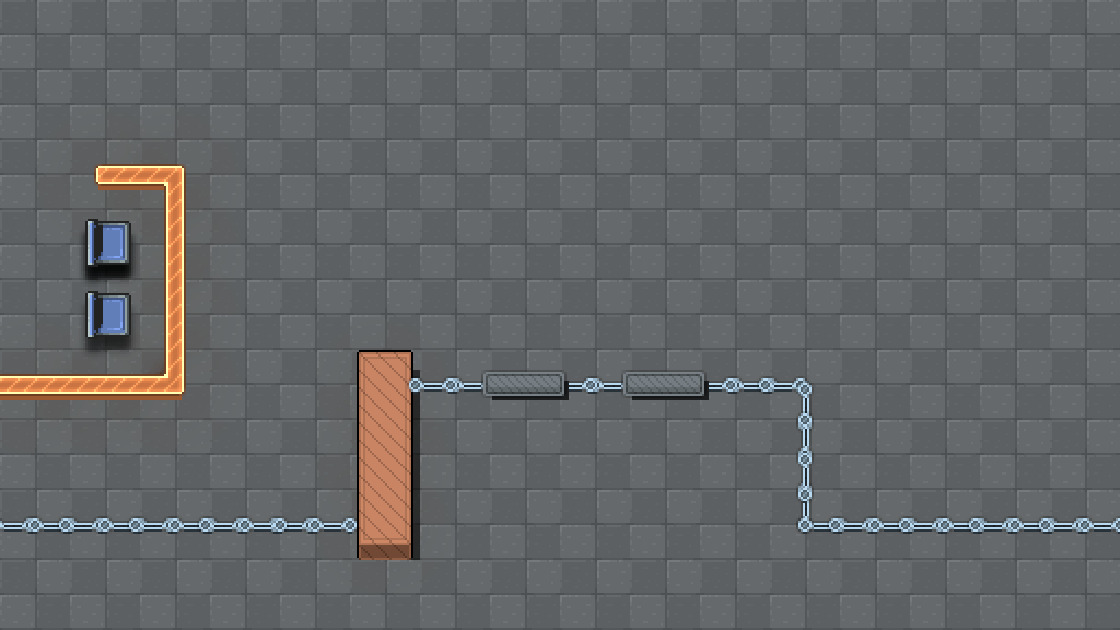
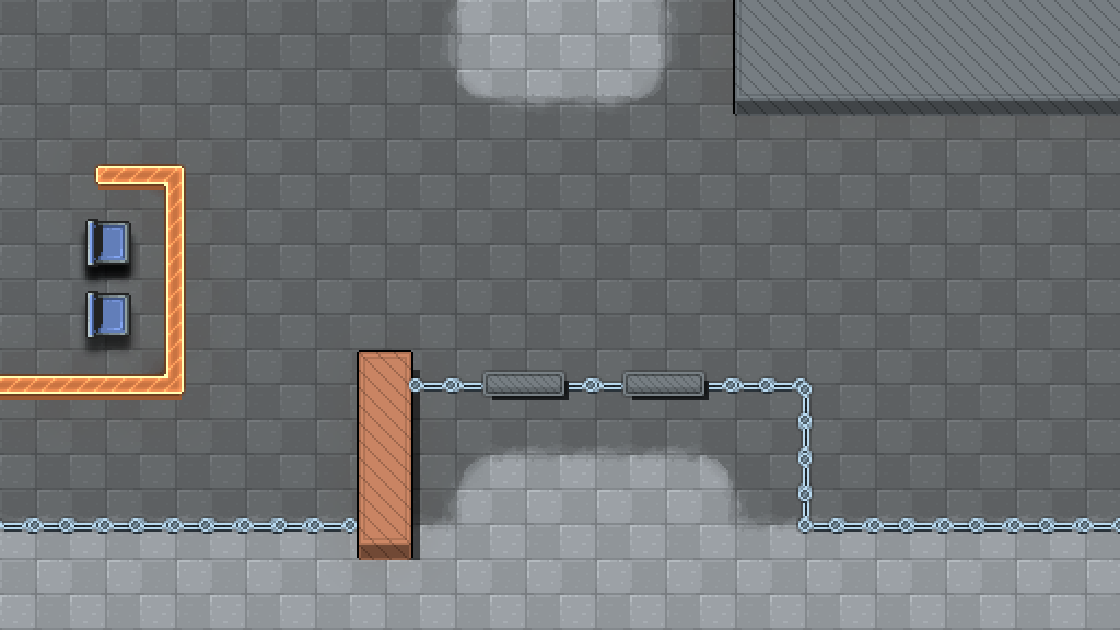
novos mapas de sala e jardim

Changed region(s): [[0.0, 0.6937, 1.0, 1.0], [0.6562, 0.0, 1.0, 0.181], [0.4062, 0.0, 0.5938, 0.181]]

diff --git a/game.py b/game.py
@@ -16,10 +16,10 @@ AZUL_CLARO      = (150,200,255)
 # ────── FONTE PIXEL ──────
 PIXEL_FONT = "fonts/PressStart2P-Regular.ttf"   # ajuste se necessário
 try:
-    fonte_dialog = pygame.font.Font(PIXEL_FONT, 20)
+    fonte_dialog = pygame.font.Font(PIXEL_FONT, 30)
 except FileNotFoundError:
     print("⚠  Fonte PressStart2P não encontrada – usando sistema.")
-    fonte_dialog = pygame.font.Font(None, 20)
+    fonte_dialog = pygame.font.Font(None, 30)
 
 fonte_hud = pygame.font.SysFont("Arial", 20)    # apenas HUD (inventário, ESC)
 
@@ -263,7 +263,7 @@ def main():
     natalie = NPC(9*LARGURA/10, 1*ALTURA/10, natalie_sprite)
 
     # área da “Bola do ICEx” (região circular central)
-    quest_target = pygame.Rect(LARGURA//2-60, ALTURA//2-60, 120,120)
+    quest_target = pygame.Rect(0, ALTURA//2-200, 210,300)
 
     fases = [
         # 0 ── PORTARIA
@@ -287,6 +287,7 @@ def main():
             "placas"     : [],
             "itens"      : [],
             "npcs"       : [],
+            "quest_target": quest_target,
             "transicoes" : [
                 { "rect": pygame.Rect(0, ALTURA-5, LARGURA, 5),        # base
                   "dest": 0,        # retorna à portaria
@@ -299,17 +300,68 @@ def main():
         },
 
         # 2 ── SALAS 1
+# 2 ── SALAS 1
         {
-            "fundo"      : load_bg("salas1.png"),
-            "obstaculos" : [],
-            "placas"     : [],
-            "itens"      : [Item(700, 500, "Caneta")],
-            "npcs"       : [natalie],
-            "quest_target": quest_target,
-            "transicoes" : [
-                { "rect": pygame.Rect(0, ALTURA-5, LARGURA, 5),        # base
-                  "dest": 1,        # volta para bolajardim
+            "fundo": load_bg("salas1.png"),
+            "obstaculos": [],
+            "placas": [],
+            "itens": [Item(700, 500, "Caneta")],
+            "npcs": [natalie],
+            "transicoes": [
+                { "rect": pygame.Rect(0, ALTURA-5, LARGURA, 5),
+                "dest": 1,
+                "spawn_side": "top" },
+                { "rect": pygame.Rect(LARGURA - 5, 0, 5, ALTURA),    # borda direita
+                "dest": 3,
+                "spawn_side": "left" }
+            ]
+        },
+
+                # 3 ── SALAS 2 (nova fase à direita de salas1)
+        {
+            "fundo": load_bg("salas2.png"),
+            "obstaculos": [],
+            "placas": [],
+            "itens": [],
+            "npcs": [],
+            "transicoes": [
+                { "rect": pygame.Rect(0, 0, 5, ALTURA),    # esquerda → salas1
+                "dest": 2,
+                "spawn_side": "right" },
+                { "rect": pygame.Rect(0, ALTURA - 5, LARGURA, 5),   # baixo → jardim2
+                "dest": 4,
+                "spawn_side": "top" }
+            ]
+
+        },
+                # 4 ── JARDIM 2 (abaixo de salas2)
+        {
+            "fundo": load_bg("jardim2.png"),
+            "obstaculos": [],
+            "placas": [],
+            "itens": [],
+            "npcs": [],
+            "transicoes": [
+                { "rect": pygame.Rect(0, 0, LARGURA, 5),    # borda superior
+                  "dest": 3,
+                  "spawn_side": "bottom" },
+                { "rect": pygame.Rect(0, ALTURA - 5, LARGURA, 5),    # borda inferior
+                  "dest": 5,
                   "spawn_side": "top" }
+            ]
+        },
+
+        # 5 ── CORREDOR FINAL (abaixo de jardim2)
+        {
+            "fundo": load_bg("corredorfinal.png"),
+            "obstaculos": [],
+            "placas": [],
+            "itens": [],
+            "npcs": [],
+            "transicoes": [
+                { "rect": pygame.Rect(0, 0, LARGURA, 5),    # borda superior
+                  "dest": 4,
+                  "spawn_side": "bottom" }
             ]
         }
     ]
@@ -385,13 +437,18 @@ def main():
         keys=pygame.key.get_pressed()
         if not (lendo_placa or quiz_pending or (npc_prox and npc_prox.ativo)):
             jogador.update(keys,fase["obstaculos"])
+                
+        # ─────── QUEST: tirar a foto manualmente ───────
+        dentro_area_foto = (
+            quest_state == "in_progress"
+            and "quest_target" in fase
+            and jogador.rect.colliderect(fase["quest_target"])
+        )
 
-        # quest: checar foto
-        if quest_state=="in_progress" and "quest_target" in fase:
-            if jogador.rect.colliderect(fase["quest_target"]):
-                quest_state="photo_taken"
-                evento_txt="📸 Foto tirada! Volte para Natalie."
-                evento_timer=time.time()
+        if dentro_area_foto and keys[pygame.K_f]:
+            quest_state = "photo_taken"
+            evento_txt = "📸 Foto tirada! Volte para Natalie."
+            evento_timer = time.time()
 
         # transição de fase
         # ──────── TRANSIÇÕES ENTRE FASES ────────
@@ -439,9 +496,34 @@ def main():
         placa_prox=next((p for p in grupo_pla if jogador.rect.colliderect(p.rect.inflate(40,40))),None)
         npc_prox  =next((n for n in grupo_npc if jogador.rect.colliderect(n.rect.inflate(50,50))),None)
 
+        # -------- prompt de interação --------
         if (placa_prox or npc_prox) and not lendo_placa and not (npc_prox and npc_prox.ativo):
-            tela.blit(fonte_dialog.render("Pressione E para interagir",True,PRETO),
-                      (jogador.rect.x-80,jogador.rect.y-40))
+            txt = "Pressione E para interagir"
+            surf_txt  = fonte_dialog.render(txt, True, PRETO)
+            w, h      = surf_txt.get_size()
+            bg_rect   = pygame.Rect(0, 0, w + 20, h + 10)
+            bg_rect.midbottom = (jogador.rect.centerx, jogador.rect.y - 10)
+
+            # janela semi‑transparente
+            box = pygame.Surface(bg_rect.size, pygame.SRCALPHA)
+            box.fill((255, 255, 255, 200))   # branco, 80 % opaco
+            tela.blit(box, bg_rect.topleft)
+            pygame.draw.rect(tela, PRETO, bg_rect, 2)  # borda
+            tela.blit(surf_txt, (bg_rect.x + 10, bg_rect.y + 5))
+
+        # -------- dica de foto (quando dentro da área) --------
+        if dentro_area_foto:
+            txt = "Pressione F para tirar foto"
+            surf_txt = fonte_dialog.render(txt, True, PRETO)
+            w, h = surf_txt.get_size()
+            bg_rect = pygame.Rect(0, 0, w + 20, h + 10)
+            bg_rect.midbottom = (jogador.rect.centerx, jogador.rect.y - 50)
+
+            box = pygame.Surface(bg_rect.size, pygame.SRCALPHA)
+            box.fill((255, 255, 255, 200))
+            tela.blit(box, bg_rect.topleft)
+            pygame.draw.rect(tela, PRETO, bg_rect, 2)
+            tela.blit(surf_txt, (bg_rect.x + 10, bg_rect.y + 5))
 
         # placa
         if lendo_placa:
@@ -456,15 +538,28 @@ def main():
             caixa=pygame.Rect(80,580,1040,160)
             tela.blit(pygame.transform.scale(WOOD_IMG,(caixa.width,caixa.height)),caixa.topleft)
             pygame.draw.rect(tela,PRETO,caixa,3)
-            linha=npc_prox.falas[npc_prox.idx]
-            tela.blit(fonte_dialog.render(linha,True,PRETO),(caixa.x+20,caixa.y+50))
+            linha = npc_prox.falas[npc_prox.idx]
+            for i, parte in enumerate(linha.split("\n")):
+                tela.blit(fonte_dialog.render(parte, True, PRETO),
+                        (caixa.x + 20, caixa.y + 50 + i * 28))  # adjust spacing for large font
+
 
         desenhar_inventario(tela,jogador.inv)
 
-        if evento_txt and time.time()-evento_timer<3:
-            tela.blit(fonte_dialog.render(evento_txt,True,PRETO),
-                      ((LARGURA-fonte_dialog.size(evento_txt)[0])//2,40))
-        elif time.time()-evento_timer>=3: evento_txt=""
+        if evento_txt and time.time() - evento_timer < 3:
+            surf_txt = fonte_dialog.render(evento_txt, True, PRETO)
+            w, h = surf_txt.get_size()
+            bg_rect = pygame.Rect(0, 0, w + 40, h + 20)
+            bg_rect.center = (LARGURA // 2, 80)
+
+            box = pygame.Surface(bg_rect.size, pygame.SRCALPHA)
+            box.fill((255, 255, 255, 230))  # slightly more opaque for visibility
+            tela.blit(box, bg_rect.topleft)
+            pygame.draw.rect(tela, PRETO, bg_rect, 2)
+            tela.blit(surf_txt, (bg_rect.x + 20, bg_rect.y + 10))
+        elif time.time() - evento_timer >= 3:
+            evento_txt = ""
+
 
         ESC_FONT = pygame.font.Font("PressStart2P.ttf", 16)
         # desenha "Esc – Pausa/Config." com a fonte PressStart2P e borda preta
